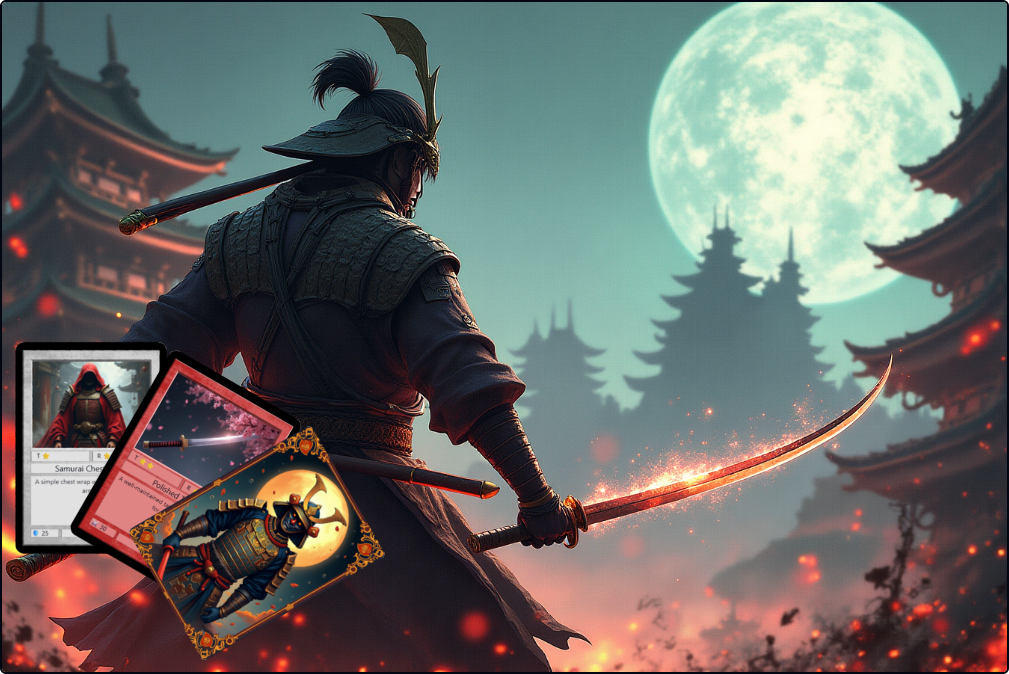
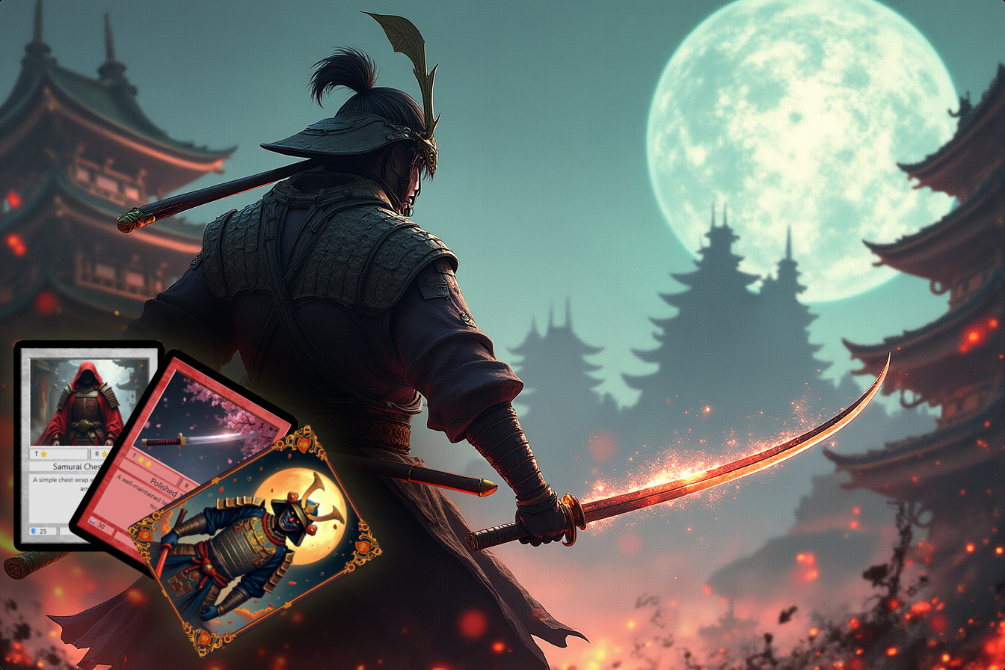
styling of index

diff --git a/frontend/src/routes/index.tsx b/frontend/src/routes/index.tsx
@@ -1,23 +1,92 @@
 import { PageContainer } from "@/components/ui/PageContainer";
-import { createFileRoute } from "@tanstack/react-router";
+import { createFileRoute, useNavigate } from "@tanstack/react-router";
 import Autoplay from "embla-carousel-autoplay";
 import {
   Carousel,
   CarouselContent,
   CarouselItem,
-  CarouselNext,
-  CarouselPrevious,
 } from "@/components/ui/carousel";
+import { CampaignIcon } from "@/components/icons/navbar/CampaignIcon";
+import { CardIcon } from "@/components/icons/typeofcards/CardIcon";
+import { BattleIcon } from "@/components/icons/navbar/BattleIcon";
+import { SignInButton, SignedIn, SignedOut } from "@clerk/clerk-react";
 
 export const Route = createFileRoute("/")({
   component: RouteComponent,
 });
 
 function RouteComponent() {
+  const navigate = useNavigate();
   return (
     <PageContainer vh="80">
       <div className="grid grid-cols-5 justify-items-center">
-        <div className="col-span-2 w-full">asd</div>
+        <div className="col-span-2 w-full text-center flex flex-col justify-evenly p-12">
+          <h1 className="text-4xl font-semibold tracking-wider py-8">
+            A modern collectible card RPG built for the browser
+          </h1>
+          <h2 className="text-3xl italic mb-8">Every playthrough is unique</h2>
+          <div className="flex flex-col items-center gap-3 text-2xl font-thin italic">
+            <div className="flex gap-3">
+              <CampaignIcon width={18} />
+              <h4>Build your campaign</h4>
+            </div>
+            <div className="flex gap-3">
+              <CardIcon width={18} />
+              <h4>Collect cards</h4>
+            </div>
+            <div className="flex gap-3">
+              <BattleIcon width={24} />
+              <h4>Fight turn-based battles</h4>
+            </div>
+          </div>
+          <div
+            className={`
+                opacity-100 cursor-pointer
+                border-[var(--page-container-bg-darkerer)] 
+                bg-[var(--page-container-border)] 
+                text-[var(--light-text)]
+                mx-10
+                my-5
+                px-5
+                py-5
+                text-xl
+                rounded-md
+                font-semibold
+                hover:text-[var(--dark-text)]
+                hover:bg-[var(--action-positive-bg)] 
+                hover:tracking-wider
+                hover:scale-110
+                transition-all
+                ease-in-out
+                duration-800
+                `}
+          >
+            <SignedIn>
+              <button
+                className="cursor-pointer"
+                data-testid="hero-creation-button"
+                onClick={() => {
+                  navigate({ to: "/campaign" });
+                }}
+              >
+                Start your story now ⚔
+              </button>
+            </SignedIn>
+            <SignedOut>
+              <SignInButton>
+                <button
+                  className="cursor-pointer"
+                  data-testid="hero-creation-button"
+                  onClick={() => {
+                    navigate({ to: "/campaign" });
+                  }}
+                >
+                  Start your story now ⚔
+                </button>
+              </SignInButton>
+            </SignedOut>
+          </div>
+        </div>
         <div className="col-span-3 ">
           <Carousel
             plugins={[
@@ -28,17 +97,24 @@ function RouteComponent() {
           >
             <CarouselContent>
               <CarouselItem className="flex justify-center">
-                <img src="/index/carrousel/campaign_1.png" />
+                <img
+                  className="rounded-xl"
+                  src="/index/carrousel/campaign_1.png"
+                />
               </CarouselItem>
               <CarouselItem className="flex justify-center">
-                <img src="/index/carrousel/campaign_2.png" />
+                <img
+                  className="rounded-xl"
+                  src="/index/carrousel/campaign_2.png"
+                />
               </CarouselItem>
               <CarouselItem className="flex justify-center">
-                <img src="/index/carrousel/campaign_3.png" />
+                <img
+                  className="rounded-xl"
+                  src="/index/carrousel/campaign_3.png"
+                />
               </CarouselItem>
             </CarouselContent>
-            <CarouselPrevious />
-            <CarouselNext />
           </Carousel>
         </div>
       </div>
